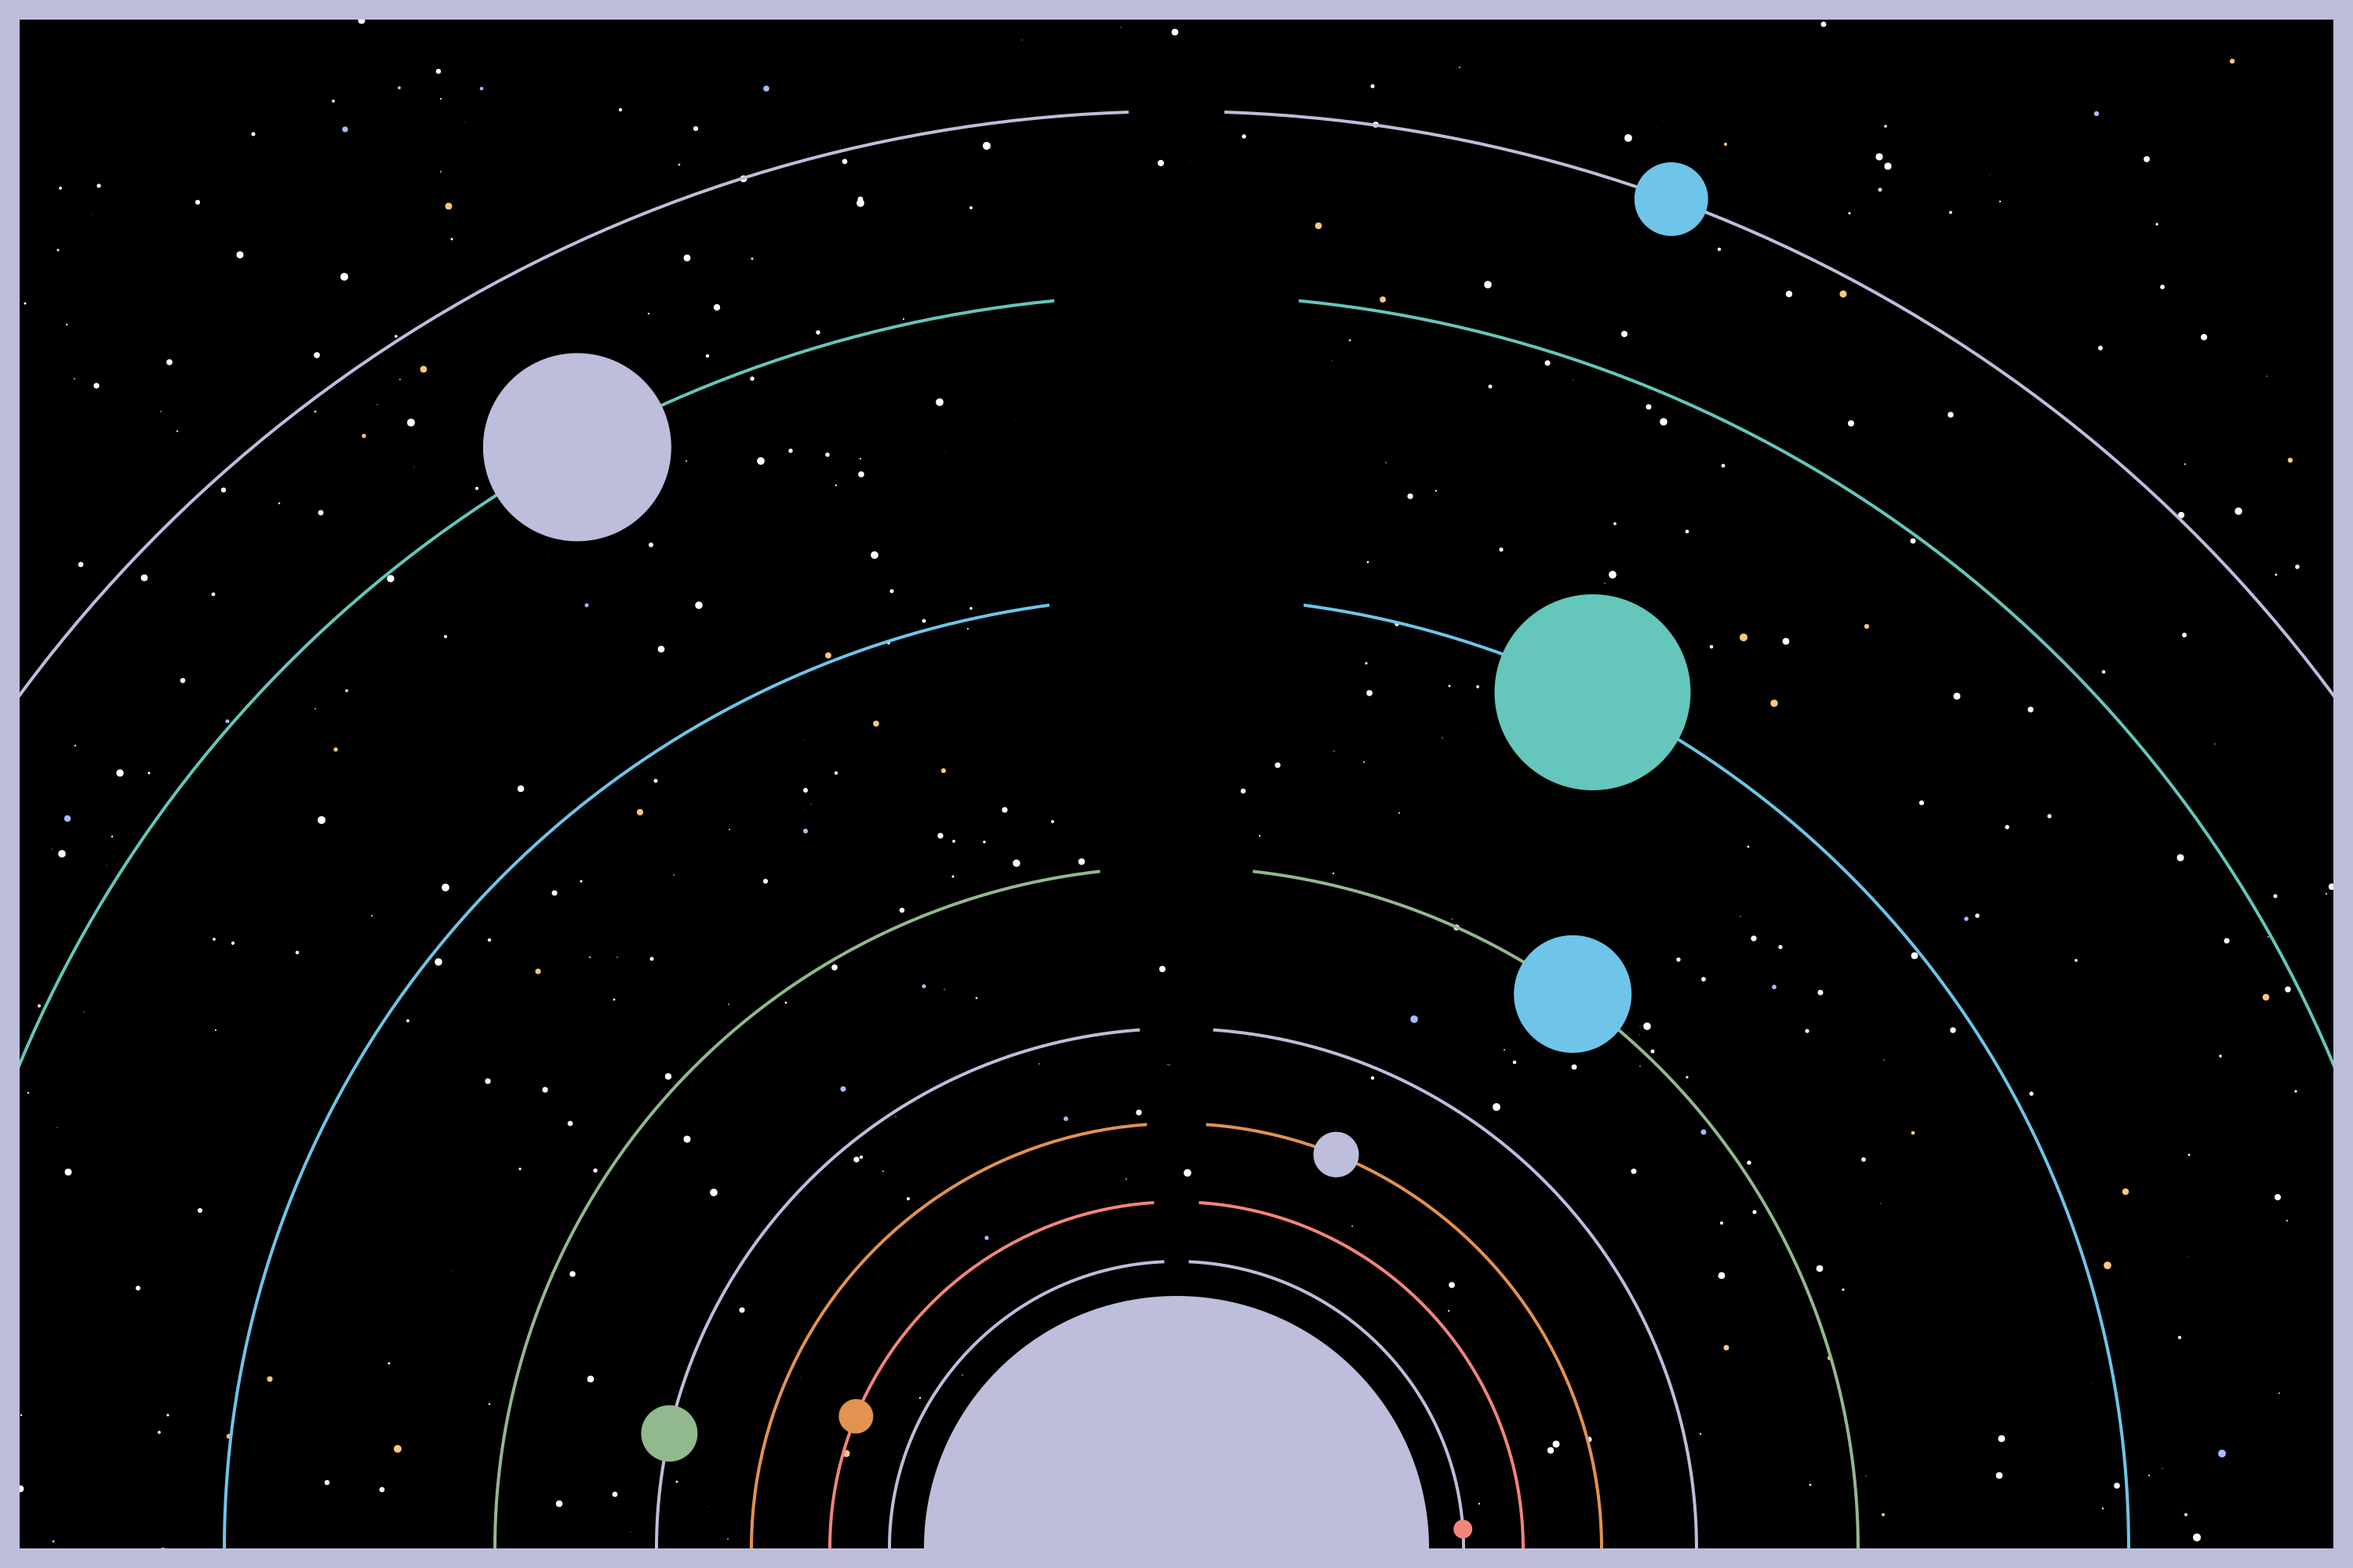
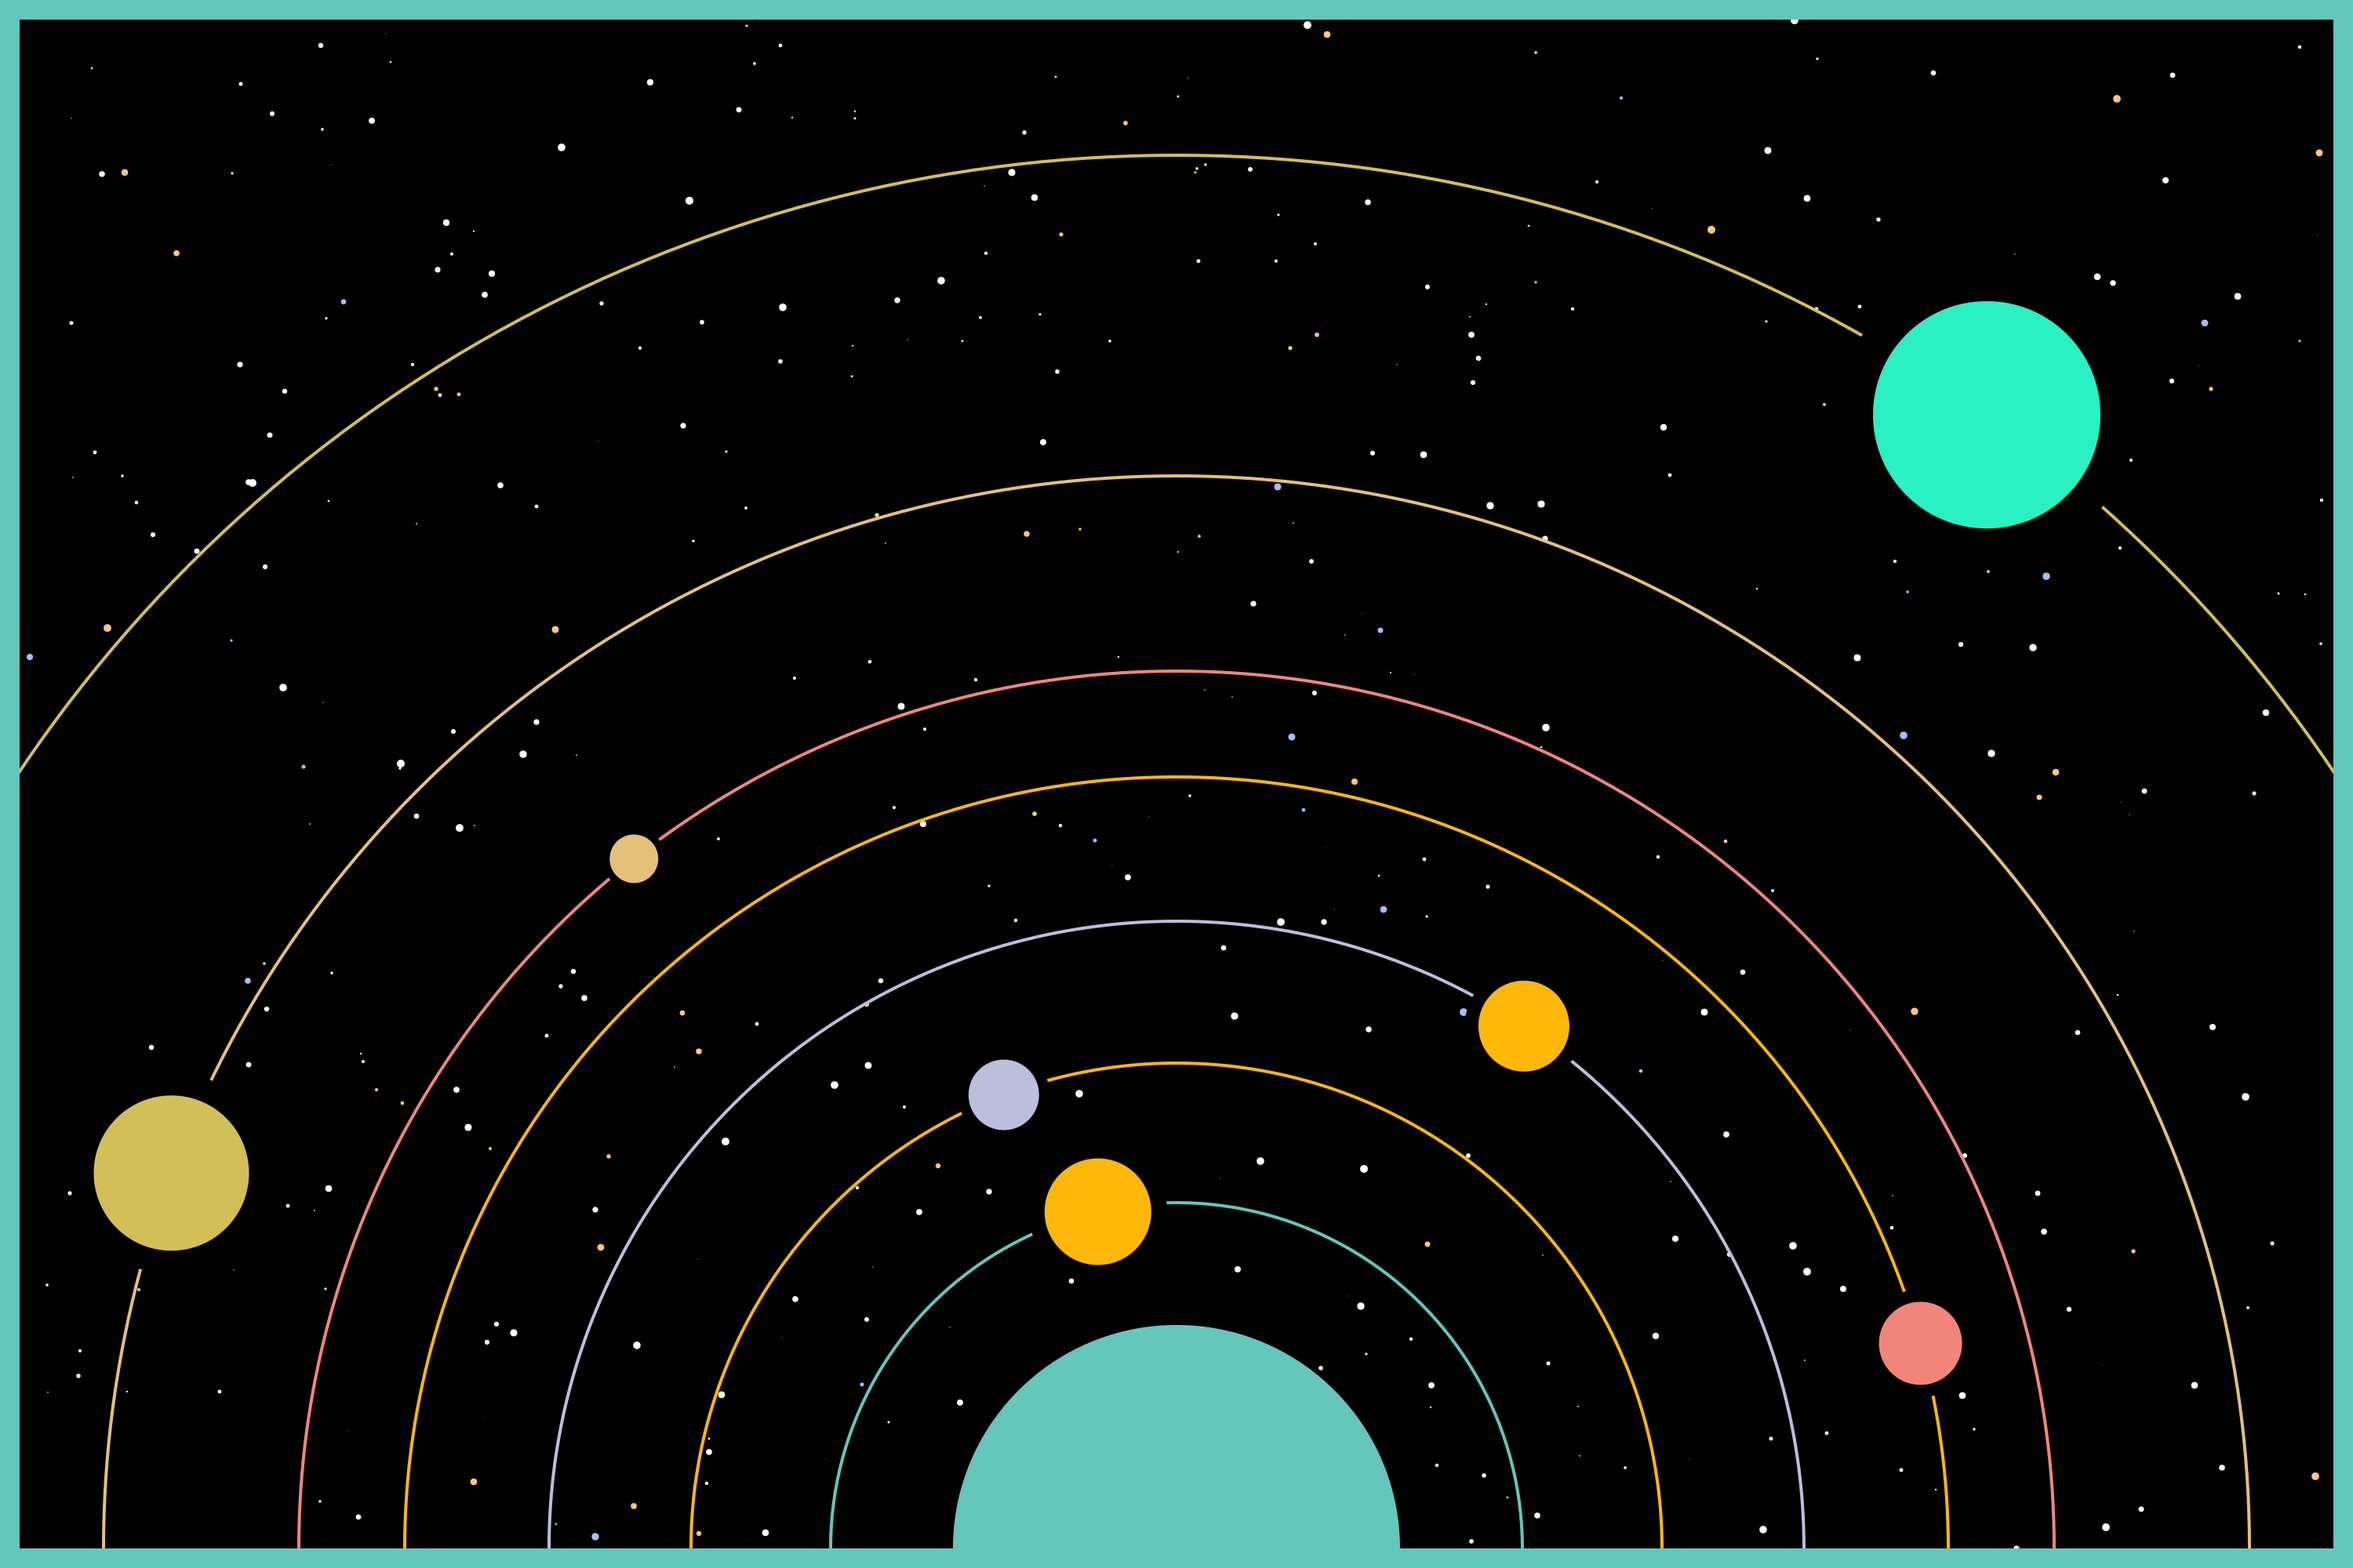
adds space on lines inline w planet randomization

diff --git a/generative-planets.py b/generative-planets.py
@@ -1,17 +1,25 @@
 
-import cairo, PIL, argparse, math, random
+import cairo
+import PIL
+import argparse
+import math
+import random
 from PIL import Image, ImageDraw
 
 list_of_colors = [(145, 185, 141), (229, 192, 121), (210, 191, 88), (140, 190, 178), (255, 183, 10), (189, 190, 220),
- (221, 79, 91), (16, 182, 98), (227, 146, 80), (241, 133, 123), (110, 197, 233), (235, 205, 188), (197, 239, 247), (190, 144, 212),
- (41, 241, 195), (101, 198, 187), (255, 246, 143), (243, 156, 18), (189, 195, 199), (243, 241, 239)]
+                  (221, 79, 91), (16, 182, 98), (227, 146, 80), (241, 133, 123), (110,
+                                                                                  197, 233), (235, 205, 188), (197, 239, 247), (190, 144, 212),
+                  (41, 241, 195), (101, 198, 187), (255, 246, 143), (243, 156, 18), (189, 195, 199), (243, 241, 239)]
 
-float_gen = lambda a, b: random.uniform(a, b)
+
+def float_gen(a, b): return random.uniform(a, b)
+
 
 def draw_orbit(cr, line, x, y, radius, r, g, b):
     cr.set_line_width(line)
     cr.arc(x, y, radius, 0, 2*math.pi)
     cr.stroke()
+    
 # # draw_rings(cr, move_line, next_center, next_size*1.5, 0, 0, 0)
 # # currently broken - line change in func makes planet lines thicker with radius of rings
 # def draw_rings(cr, line, x, y, radius, r, g, b):
@@ -19,11 +27,13 @@ def draw_orbit(cr, line, x, y, radius, r, g, b):
 #     cr.arc(x, y, radius*1.2, 0, 2*math.pi)
 #     cr.stroke()
 
+
 def draw_circle_fill(cr, x, y, radius, r, g, b):
     cr.set_source_rgb(r, g, b)
     cr.arc(x, y, radius, 0, 2*math.pi)
     cr.fill()
-    
+
+
 def draw_border(cr, size, r, g, b, width, height):
     cr.set_source_rgb(r, g, b)
     cr.rectangle(0, 0, size, height)
@@ -32,74 +42,70 @@ def draw_border(cr, size, r, g, b, width, height):
     cr.rectangle(width-size, 0, size, height)
     cr.fill()
 
+
 def draw_background(cr, width, height, white, yellow, blue):
     cr.rectangle(0, 0, width, height)
     cr.set_source_rgb(0, 0, 0)
     cr.fill()
     for x in range(0, white):
         # x, y, radius, angle1, angle2
-        cr.arc(random.randint(0, width), random.randint(0, height), random.uniform(.1, 5), 0, 2*math.pi)
+        cr.arc(random.randint(0, width), random.randint(
+            0, height), random.uniform(.1, 5), 0, 2*math.pi)
         cr.set_source_rgb(255, 255, 255)
         cr.fill()
     for x in range(0, yellow):
-        cr.arc(random.randint(0, width), random.randint(0, height), random.uniform(.1, 5), 0, 2*math.pi)
+        cr.arc(random.randint(0, width), random.randint(
+            0, height), random.uniform(.1, 5), 0, 2*math.pi)
         cr.set_source_rgb(1, 198/255, 127/255)
         cr.fill()
     for x in range(0, blue):
-        cr.arc(random.randint(0, width), random.randint(0, height), random.uniform(.1, 5), 0, 2*math.pi)
+        cr.arc(random.randint(0, width), random.randint(
+            0, height), random.uniform(.1, 5), 0, 2*math.pi)
         cr.set_source_rgb(167/255, 188/255, 1)
         cr.fill()
 
 
-     
-# def points_on_circum(r,n=100):
-#                 points_positive = []
-#                 for x in range(0,n+1):
-#                     xcoord = (math.cos(2*math.pi/n*x)*r)
-#                     ycoord = (math.sin(2*math.pi/n*x)*r)
-#                     if(xcoord > 0 and ycoord > 0):
-#                         points_positive.append((xcoord, ycoord))
-#                 print(points_positive)
-#                 return points_positive
-
 def points_on_circum(r, width, height, border):
-                print(r, "this is insive function")
-                points_positive = []
-                for x in range(0, 100):
-                    xcoord = (math.cos(1.8*x) *r) + width/2 
-                    ycoord = -1 * (math.sin(1.8*x) *r) + height - border
-                    if((xcoord > 0 and xcoord < width-border) and (ycoord > 0 and ycoord < height - border)):
-                        points_positive.append((xcoord, ycoord))
-                # print(points_positive)
-                return points_positive
-    
-# def points_on_circum(r, width ,n=100):
-#     return [((-1*(math.cos(2*math.pi/n*x)*r) - width/2),math.sin(2*math.pi/n*x)*r) for x in range(0,n+1)]
+    print(r, "this is insive function")
+    points_positive = []
+    for x in range(0, 100):
+        xcoord = (math.cos(1.8*x) * r) + width/2
+        ycoord = -1 * (math.sin(1.8*x) * r) + height - border
+        if((xcoord > 0 and xcoord < width-border+30) and (ycoord > 0 and ycoord < height - border + 100)):
+            points_positive.append((xcoord, ycoord))
+    # print(points_positive)
+    return points_positive
+
 
 def main():
     parser = argparse.ArgumentParser()
-    parser.add_argument("--width", help="Specify Width", default=3000, type=int)
-    parser.add_argument("--height", help="Specify Height", default=2000, type=int)
-    parser.add_argument("-o", "--orbit", help="Actual Orbits", action="store_true")
+    parser.add_argument("--width", help="Specify Width",
+                        default=3000, type=int)
+    parser.add_argument("--height", help="Specify Height",
+                        default=2000, type=int)
+    parser.add_argument(
+        "-o", "--orbit", help="Actual Orbits", action="store_true")
     parser.add_argument("-l", "--line", help=".", action="store_true")
-    parser.add_argument("-s", "--sunsize", help=".", default=random.randint(200, 400), type=int)
+    parser.add_argument("-s", "--sunsize", help=".",
+                        default=random.randint(200, 400), type=int)
     parser.add_argument("-bs", "--bordersize", help=".", default=50, type=int)
-    parser.add_argument("-n", "--noise", help="Texture", default=.4, type=float)
-    
+    parser.add_argument("-n", "--noise", help="Texture",
+                        default=.4, type=float)
+    parser.add_argument("-r", "--random", help="Random placements", type=int)
+
     # white_star= int(input('white star number: '))
     # yellow_star= int(input('yellow star number: '))
     # blue_star= int(input('blue star number: '))
-    
+
     white_star = 350
     blue_star = 30
     yellow_star = 60
     border_size = 25
     args = parser.parse_args()
-    
+
     width, height = args.width, args.height
     # border_size = int(input('border size: '))
     sun_size = args.sunsize
-
 
     sun_center = height - border_size
 
@@ -109,7 +115,8 @@ def main():
     draw_background(cr, width, height, white_star, yellow_star, blue_star)
 
     sun_color = random.choice(list_of_colors)
-    sun_r, sun_g, sun_b = sun_color[0]/255.0, sun_color[1]/255.0, sun_color[2]/255.0
+    sun_r, sun_g, sun_b = sun_color[0] / \
+        255.0, sun_color[1]/255.0, sun_color[2]/255.0
 
     draw_circle_fill(cr, width/2, sun_center, sun_size, sun_r, sun_g, sun_b)
 
@@ -123,23 +130,32 @@ def main():
 
     for x in range(1, 20):
         next_size = random.randint(min_size, max_size)
-        next_center = last_center - last_size - (next_size * 2) - distance_between_planets
-        movement = [width/2 + (random.randint(0, width-border_size-next_center)/2), 
-                    width/2 - (random.randint(0,width-border_size-next_center)/2)]
+        next_center = last_center - last_size - \
+            (next_size * 2) - distance_between_planets
+        movement = [width/2 + (random.randint(0, width-border_size-next_center)/2),
+                    width/2 - (random.randint(0, width-border_size-next_center)/2)]
         move_line = random.choice(movement)
-        
+
         if not(next_center - next_size < border_size):
-            
+            arc = height - next_center - border_size
+            placement = random.choice(points_on_circum(
+                arc, width, height, border_size))
+
             if(args.orbit):
-                # cr, line, x, y, radius, r, g, b
-                print(height - next_center - border_size, "this is at the orbit draw spot", x)
-                draw_orbit(cr, 4, width/2, sun_center, height - next_center - border_size, .6, .6, .6)
-                draw_circle_fill(cr, width/2, next_center, next_size*1.3, 0, 0, 0)
+                draw_orbit(cr, 4, width/2, sun_center, height -
+                           next_center - border_size, .6, .6, .6)
+                if(args.random < 5):
+                    draw_circle_fill(
+                        cr, placement[0], placement[1], next_size*1.3, 0, 0, 0)
+                elif(args.random > 5):
+                    draw_circle_fill(cr, width/2, next_center,
+                                     next_size*1.3, 0, 0, 0)
             elif(args.line):
                 cr.move_to(border_size * 2, next_center)
                 cr.line_to(width-(border_size*2), next_center)
                 cr.stroke()
-                draw_circle_fill(cr, move_line, next_center, next_size*1.5, 0, 0, 0)
+                draw_circle_fill(cr, move_line, next_center,
+                                 next_size*1.5, 0, 0, 0)
                 # draw_rings(cr, 2,move_line, next_center, next_size*1.5, 0, 0, 0)
 
             rand_color = random.choice(list_of_colors)
@@ -148,22 +164,20 @@ def main():
 
             last_color = rand_color
 
-            r, g, b = rand_color[0]/255.0, rand_color[1]/255.0, rand_color[2]/255.0
+            r, g, b = rand_color[0]/255.0, rand_color[1] / \
+                255.0, rand_color[2]/255.0
 
             if(args.orbit):
-                # what arg, x, y, radius, r, g, b
-                    # x^ + y^ = r^
-                # (cr, x, y, radius, ...)
-                arc = height - next_center - border_size
-                print(arc, "this is at the draw planet part", x)
-                placement = random.choice(points_on_circum(arc, width, height, border_size))
-                print (placement)
-                # draw_circle_fill(cr, width/2, next_center, next_size, r, g, b)
-                draw_circle_fill(cr, placement[0],placement[1], next_size, r, g, b)
-                
+                if(args.random < 5):
+                    draw_circle_fill(
+                        cr, placement[0], placement[1], next_size, r, g, b)
+                elif(args.random > 5):
+                    draw_circle_fill(cr, width/2, next_center,
+                                     next_size, r, g, b)
+
             elif(args.line):
-                   
-                draw_circle_fill(cr, move_line, next_center, next_size, r, g, b)
+                draw_circle_fill(cr, move_line, next_center,
+                                 next_size, r, g, b)
 
             last_center = next_center
             last_size = next_size
@@ -173,9 +187,11 @@ def main():
 
     draw_border(cr, border_size, sun_r, sun_g, sun_b, width, height)
 
-    ims.write_to_png('Examples/Generative-Space-Flat-' + str(width) + 'w-' + str(height) + 'h.png')
+    ims.write_to_png('Examples/Generative-Space-Flat-' +
+                     str(width) + 'w-' + str(height) + 'h.png')
 
-    pil_image = Image.open('Examples/Generative-Space-Flat-' + str(width) + 'w-' + str(height) + 'h.png')
+    pil_image = Image.open('Examples/Generative-Space-Flat-' +
+                           str(width) + 'w-' + str(height) + 'h.png')
     pixels = pil_image.load()
 
     for i in range(pil_image.size[0]):
@@ -184,13 +200,9 @@ def main():
 
             noise = float_gen(1.0 - args.noise, 1.0 + args.noise)
             pixels[i, j] = (int(r*noise), int(g*noise), int(b*noise))
-    pil_image.save('Examples/Generative-Space-Texture-' + str(width) + 'w-' + str(height) + 'h.png')
+    pil_image.save('Examples/Generative-Space-Texture-' +
+                   str(width) + 'w-' + str(height) + 'h.png')
+
 
 if __name__ == "__main__":
     main()
-    
-   
-    
-   
-    
-    
